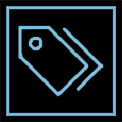
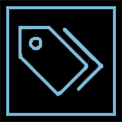
achievements settings

diff --git a/translations/QtLanguage_ru.ts b/translations/QtLanguage_ru.ts
@@ -295,9 +295,20 @@
         <translation>Настройки</translation>
     </message>
     <message>
-        <location filename="mainwindow.ui" line="8099"/>
+        <source>Generation settings</source>
+        <translation>Настройки генерации</translation>
+    </message>
+    <message>
+        <source>Program settings</source>
+        <translation>Настройки программы</translation>
+    </message>
+    <message>
         <source>Help</source>
-        <translation>Помощь</translation>
+        <translation type="vanished">Помощь</translation>
+    </message>
+    <message>
+        <source>Information</source>
+        <translation>Информация</translation>
     </message>
     <message>
         <location filename="mainwindow.ui" line="8120"/>

diff --git a/src/ui/achievementtoast.cpp b/src/ui/achievementtoast.cpp
@@ -18,16 +18,16 @@ public:
     AchievementToast(const AchievementDef &def, QWidget *parent)
         : QWidget(parent)
     {
-        setFixedSize(320, 78);
+        setFixedSize(426, 104);
 
         barColor = achievementRarityColor(def.rarity);
 
         auto *root = new QHBoxLayout(this);
-        root->setContentsMargins(12, 8, 8, 8);
-        root->setSpacing(8);
+        root->setContentsMargins(16, 12, 12, 12);
+        root->setSpacing(12);
 
         auto *icon = new QLabel(this);
-        icon->setFixedSize(56, 56);
+        icon->setFixedSize(74, 74);
         icon->setScaledContents(true);
         const QPixmap pm(def.resolvedIcon(true, achievementDefaults()));
         if (!pm.isNull())
@@ -37,28 +37,28 @@ public:
         auto *textCol = new QVBoxLayout;
         textCol->setSpacing(2);
         auto *caption = new QLabel(QCoreApplication::translate("Achievements", "Achievement unlocked"), this);
-        caption->setStyleSheet(QStringLiteral("color: rgb(160, 200, 220); font-size: 10px; background: transparent;"));
+        caption->setStyleSheet(QStringLiteral("color: rgb(160, 200, 220); font-size: 13px; background: transparent;"));
         auto *title = new QLabel(QCoreApplication::translate("Achievements", def.title.toUtf8().constData()), this);
         title->setWordWrap(true);
-        title->setStyleSheet(QStringLiteral("color: rgb(230, 240, 245); font-weight: bold; background: transparent;"));
+        title->setStyleSheet(QStringLiteral("color: rgb(230, 240, 245); font-size: 16px; font-weight: bold; background: transparent;"));
         textCol->addWidget(caption);
         textCol->addWidget(title);
         textCol->addStretch(1);
         root->addLayout(textCol, 1);
 
         auto *closeBtn = new QPushButton(QStringLiteral("x"), this);
-        closeBtn->setFixedSize(22, 22);
+        closeBtn->setFixedSize(28, 28);
         closeBtn->setFlat(true);
         closeBtn->setCursor(Qt::PointingHandCursor);
         closeBtn->setStyleSheet(QStringLiteral(
-            "QPushButton { color: rgb(110, 170, 200); background: transparent; border: none; }"
+            "QPushButton { color: rgb(110, 170, 200); background: transparent; border: none; font-size: 16px; }"
             "QPushButton:hover { color: rgb(230, 240, 245); }"));
         connect(closeBtn, &QPushButton::clicked, this, &QWidget::deleteLater);
         root->addWidget(closeBtn, 0, Qt::AlignTop);
 
         auto *timer = new QTimer(this);
         timer->setSingleShot(true);
-        timer->setInterval(4500);
+        timer->setInterval(9000);
         connect(timer, &QTimer::timeout, this, &QWidget::deleteLater);
         timer->start();
     }

diff --git a/src/app/mainwindow.cpp b/src/app/mainwindow.cpp
@@ -85,7 +85,7 @@ MainWindow::MainWindow(QWidget *parent)
     , genActiveOp(GenOp::None)
     , genQueuedOp(GenOp::None)
 {
-    QSettings st;
+    QSettings st(appSettingsFile(), QSettings::IniFormat);
     language = st.value(AppKeys::language, QStringLiteral("en")).toString();
     if (language != QStringLiteral("ru"))
         language = QStringLiteral("en");
@@ -139,12 +139,12 @@ MainWindow::MainWindow(QWidget *parent)
     connect(ui->action_9, &QAction::triggered, this, &MainWindow::M_Load_Planet);
     connect(ui->action_10, &QAction::triggered, this, &MainWindow::M_Switch_Language);
     connect(ui->action_live, &QAction::toggled, this, [](bool on) {
-        QSettings().setValue(AppKeys::livePreview, on);
+        QSettings(appSettingsFile(), QSettings::IniFormat).setValue(AppKeys::livePreview, on);
     });
     connect(preview->liveCheck(), &QCheckBox::toggled, ui->action_live, &QAction::setChecked);
     connect(ui->action_live, &QAction::toggled, preview->liveCheck(), &QCheckBox::setChecked);
     connect(preview->spinCheck(), &QCheckBox::toggled, this, [](bool on) {
-        QSettings().setValue(AppKeys::globeSpin, on);
+        QSettings(appSettingsFile(), QSettings::IniFormat).setValue(AppKeys::globeSpin, on);
     });
     connect(preview->spinCheck(), &QCheckBox::toggled, preview->glWidget(), &PlanetGLWidget::setSpinning);
     connect(settingsPanel, &SettingsPanel::settingsChanged, this, [this](bool appearanceOnly) {
@@ -188,7 +188,7 @@ MainWindow::~MainWindow()
 
 void MainWindow::closeEvent(QCloseEvent *event)
 {
-    QSettings().setValue(AppKeys::windowGeometry, saveGeometry());
+    QSettings(appSettingsFile(), QSettings::IniFormat).setValue(AppKeys::windowGeometry, saveGeometry());
     QMainWindow::closeEvent(event);
 }
 
@@ -213,7 +213,7 @@ void MainWindow::M_Switch_Language()
         language = "ru";
         qApp->installTranslator(&qtLanguageTranslator);
     }
-    QSettings().setValue(AppKeys::language, language);
+    QSettings(appSettingsFile(), QSettings::IniFormat).setValue(AppKeys::language, language);
 }
 
 void MainWindow::changeEvent(QEvent *event)

diff --git a/src/achievements/achievementstore.cpp b/src/achievements/achievementstore.cpp
@@ -15,28 +15,30 @@ bool AchievementStore::isUnlocked(const QString &id)
 {
     if (id.isEmpty())
         return false;
-    return QSettings().contains(unlockKey(id));
+    return QSettings(appSettingsFile(), QSettings::IniFormat).contains(unlockKey(id));
 }
 
 QDateTime AchievementStore::unlockedAt(const QString &id)
 {
     if (id.isEmpty())
         return QDateTime();
-    return QDateTime::fromString(QSettings().value(unlockKey(id)).toString(), Qt::ISODate);
+    return QDateTime::fromString(
+        QSettings(appSettingsFile(), QSettings::IniFormat).value(unlockKey(id)).toString(), Qt::ISODate);
 }
 
 bool AchievementStore::unlock(const QString &id)
 {
     if (id.isEmpty() || isUnlocked(id))
         return false;
-    QSettings().setValue(unlockKey(id), QDateTime::currentDateTimeUtc().toString(Qt::ISODate));
+    QSettings(appSettingsFile(), QSettings::IniFormat)
+        .setValue(unlockKey(id), QDateTime::currentDateTimeUtc().toString(Qt::ISODate));
     return true;
 }
 
 QHash<QString, QDateTime> AchievementStore::allUnlocked()
 {
     QHash<QString, QDateTime> out;
-    QSettings st;
+    QSettings st(appSettingsFile(), QSettings::IniFormat);
     st.beginGroup(QStringLiteral("achievements/unlock"));
     const QStringList keys = st.childKeys();
     for (const QString &id : keys)
@@ -46,12 +48,14 @@ QHash<QString, QDateTime> AchievementStore::allUnlocked()
 
 int AchievementStore::createdCount()
 {
-    return QSettings().value(QLatin1String(AppKeys::achievementCreatedCount), 0).toInt();
+    return QSettings(appSettingsFile(), QSettings::IniFormat)
+        .value(QLatin1String(AppKeys::achievementCreatedCount), 0)
+        .toInt();
 }
 
 int AchievementStore::addCreatedPlanet()
 {
-    QSettings st;
+    QSettings st(appSettingsFile(), QSettings::IniFormat);
     const int n = st.value(QLatin1String(AppKeys::achievementCreatedCount), 0).toInt() + 1;
     st.setValue(QLatin1String(AppKeys::achievementCreatedCount), n);
     return n;

diff --git a/src/app/appsettings.h b/src/app/appsettings.h
@@ -2,8 +2,10 @@
 #define APPSETTINGS_H
 
 #include <QDir>
+#include <QFile>
 #include <QFileInfo>
 #include <QSettings>
+#include <QStandardPaths>
 #include <QString>
 
 namespace AppKeys {
@@ -19,9 +21,32 @@ const char achievementUnlockPrefix[] = "achievements/unlock/";
 const char achievementCreatedCount[] = "achievements/createdCount";
 }
 
+inline QString appSettingsFile()
+{
+    const QString dir = QStandardPaths::writableLocation(QStandardPaths::AppLocalDataLocation);
+    QDir().mkpath(dir);
+    return QDir(dir).filePath(QStringLiteral("GodOfPixels3.ini"));
+}
+
+inline void migrateAppSettingsFromRegistry()
+{
+    const QString file = appSettingsFile();
+    if (QFile::exists(file))
+        return;
+    const QSettings registry(QSettings::NativeFormat, QSettings::UserScope,
+                             QStringLiteral("NikitaRiabovSoft"),
+                             QStringLiteral("GodOfPixels3"));
+    const QStringList keys = registry.allKeys();
+    if (keys.isEmpty())
+        return;
+    QSettings ini(file, QSettings::IniFormat);
+    for (const QString &key : keys)
+        ini.setValue(key, registry.value(key));
+}
+
 inline QString startPath(const char *dirKey, const QString &fileName = QString())
 {
-    const QString dir = QSettings().value(dirKey).toString();
+    const QString dir = QSettings(appSettingsFile(), QSettings::IniFormat).value(dirKey).toString();
     if (dir.isEmpty() || !QDir(dir).exists())
         return fileName.isEmpty() ? QStringLiteral("./") : fileName;
     if (fileName.isEmpty())
@@ -36,7 +61,7 @@ inline void rememberPath(const char *dirKey, const QString &selected)
     const QFileInfo info(selected);
     const QString dir = info.isDir() ? info.absoluteFilePath() : info.absolutePath();
     if (!dir.isEmpty())
-        QSettings().setValue(dirKey, dir);
+        QSettings(appSettingsFile(), QSettings::IniFormat).setValue(dirKey, dir);
 }
 
 #endif

diff --git a/src/app/main.cpp b/src/app/main.cpp
@@ -1,4 +1,5 @@
 #include "mainwindow.h"
+#include "appsettings.h"
 #include <QApplication>
 #include <QSurfaceFormat>
 #include <QTranslator>
@@ -10,6 +11,7 @@ int main(int argc, char *argv[]){
     QApplication a(argc, argv);
     a.setOrganizationName(QStringLiteral("NikitaRiabovSoft"));
     a.setApplicationName(QStringLiteral("GodOfPixels3"));
+    migrateAppSettingsFromRegistry();
     MainWindow w;
     w.show();
     return a.exec();
